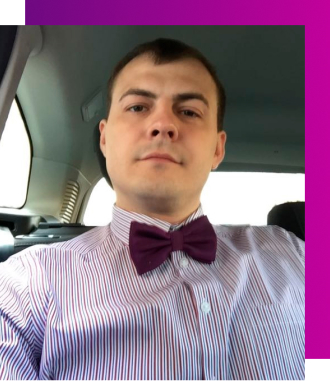
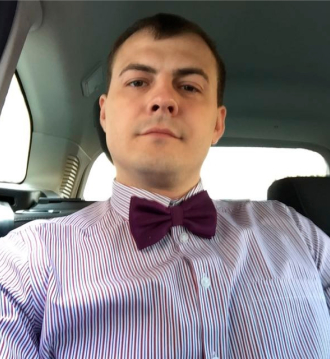
update section-our-team

diff --git a/src/partials/components/section-our-team.html b/src/partials/components/section-our-team.html
@@ -1,11 +1,17 @@
 <section class="section-our-team py-4">
     <div class="container-xxl">
-       <h2 class="text-start fw-bold mt-4">Наша команда</h2>
+       <h2 class="text-start fw-bold mt-4 pb-3">Наша команда</h2>
 
         <div class="row">
             {{#repeat 8}}
-            <div class="col-12 col-sm-6 col-lg-3 py-3">
-                <img src="assets/img/foto-1.jpg" class="card-img-top" alt="foto-1">
+            <div class="col-12 col-sm-6 col-lg-3 p-4">
+                <div class="card-our-team position-relative">
+
+                    <img src="assets/img/foto-1.jpg" class="card-foto position-absolute" alt="foto-1">
+
+                    <img src="assets/img/bg-foto.jpg" class="card-bg position-relative" alt="bg-card">
+
+                </div>
                 <p class="h5 text-center fw-bold pt-2">Антон С. - Руководитель</p>
             </div>
             {{/repeat}}

diff --git a/src/assets/scss/components/_section-our-team.scss b/src/assets/scss/components/_section-our-team.scss
@@ -1,0 +1,18 @@
+.section-our-team {
+    .card-our-team {
+        .card-bg {
+            width: 100%;
+            z-index: 1000;
+            left: 25px;
+            bottom: 25px;
+        }
+
+        .card-foto {
+            //position: absolute;
+            width: 100%;
+            height: 100%;
+            z-index: 1050;
+    
+        }
+    }
+}

diff --git a/src/assets/scss/style.scss b/src/assets/scss/style.scss
@@ -24,6 +24,7 @@
 @import "./components/section-our-services";
 @import "./components/section-you-will-get";
 @import "./components/section-why-order";
+@import "./components/section-our-team";
 @import "./components/footer";
 @import "./components/section-header-home";
 @import "./components/section-cases";
